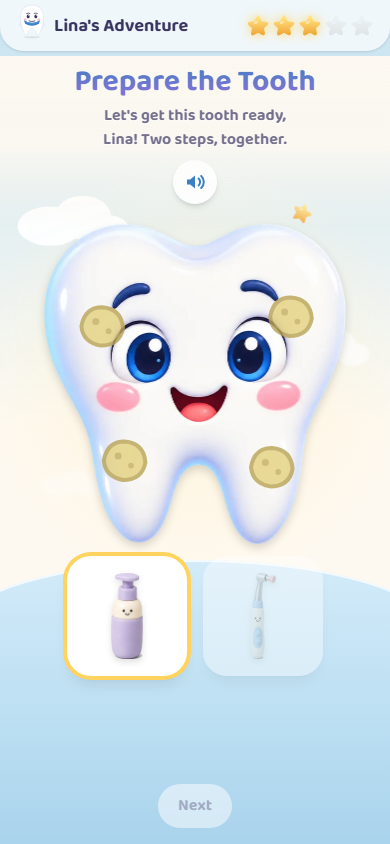
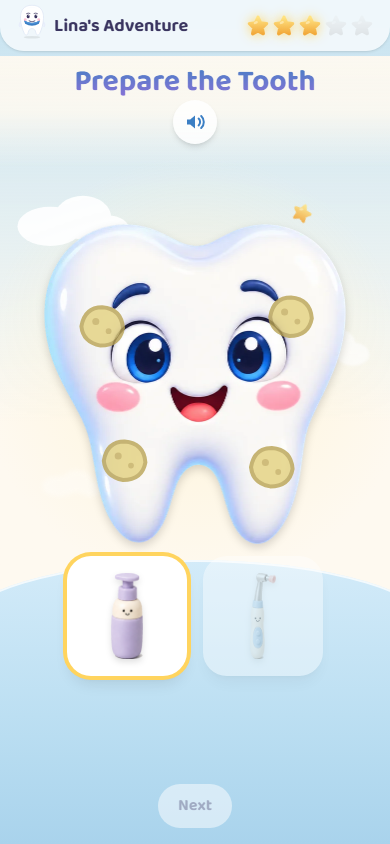
Take the spoken line off the stage
The caption was two lines when the English was a short script of its own.
Translating it from the Arabic recordings grew it to seven or eight, and
the stop-signal screen ended up a wall of text with the artwork pushed
below it and the replay button sitting over the boy's head.

It is worth saying plainly that a printed caption was always the odd one
out here. The audience is four to eight and most of them cannot read it;
every word is spoken aloud already, and the replay button is right there
for a line that was missed.

Hidden rather than deleted. It stays in the accessibility tree as the
only text alternative to the narration — for a screen reader, or for
anyone playing with the sound off — and it costs nothing to leave where
assistive technology can still reach it. It is also what eleven tests
read to know which step is on screen, and gutting those would have traded
a layout fix for weaker coverage.

134 unit tests and 47 browser tests green; review-sheet screenshots
recaptured in both languages.

Claude-Session: https://claude.ai/code/session_01SfxMf3R3fENpnA8BocDiXE

Changed region(s): [[0.2462, 0.1232, 0.7385, 0.2464]]

diff --git a/app/src/game/GameStage.tsx b/app/src/game/GameStage.tsx
@@ -64,15 +64,26 @@ export function GameStage({
         </h1>
         {intro !== undefined && (
           <>
-            <p
-              className="w-full text-ink/70 font-bold text-center mt-1 min-h-14 text-balance"
-              onClick={audioReplayDisabled ? undefined : onIntroTap}
-            >
+            {/*
+              The spoken line is not printed on the stage any more.
+
+              It was two lines of caption when the English was a short script of
+              its own. Once the English became a translation of the Arabic
+              recordings it grew to seven or eight, which pushed the artwork
+              down the screen and put a wall of text in front of a child who
+              cannot read it — the audience for this game is four to eight, and
+              every word of it is spoken aloud already.
+
+              Kept in the accessibility tree rather than deleted: it is the only
+              text alternative to the narration for anyone playing with the
+              sound off or with a screen reader, and it costs nothing to leave
+              where assistive technology can still reach it.
+            */}
+            <p className="sr-only" data-testid="narration-text">
               {intro}
             </p>
-            {/* Its own row rather than beside the text: crowding the line
-                narrows it enough to add a wrap, and a four-year-old needs the
-                replay target big and obvious anyway. */}
+            {/* The replay button stays, and is now the whole control: a child
+                who missed the line taps here to hear it again. */}
             <AudioButton onPress={onIntroTap} disabled={audioReplayDisabled} />
           </>
         )}
